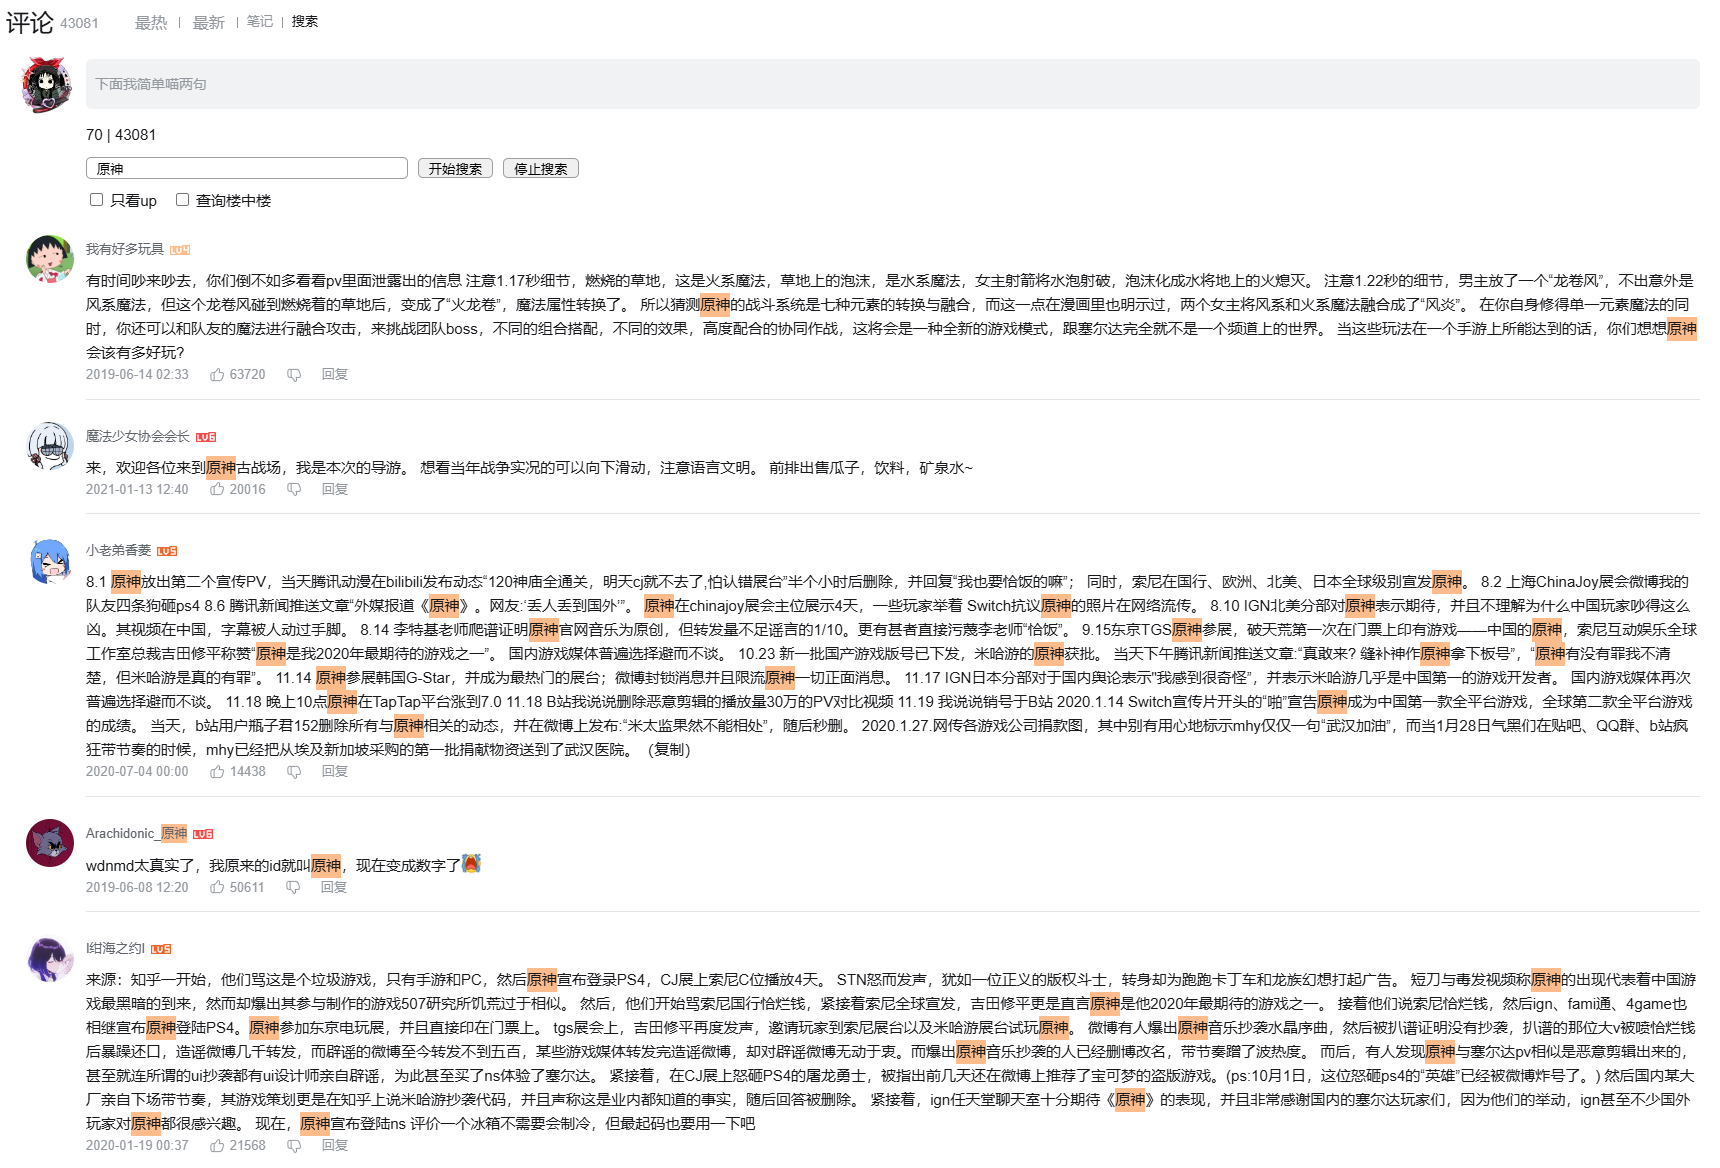
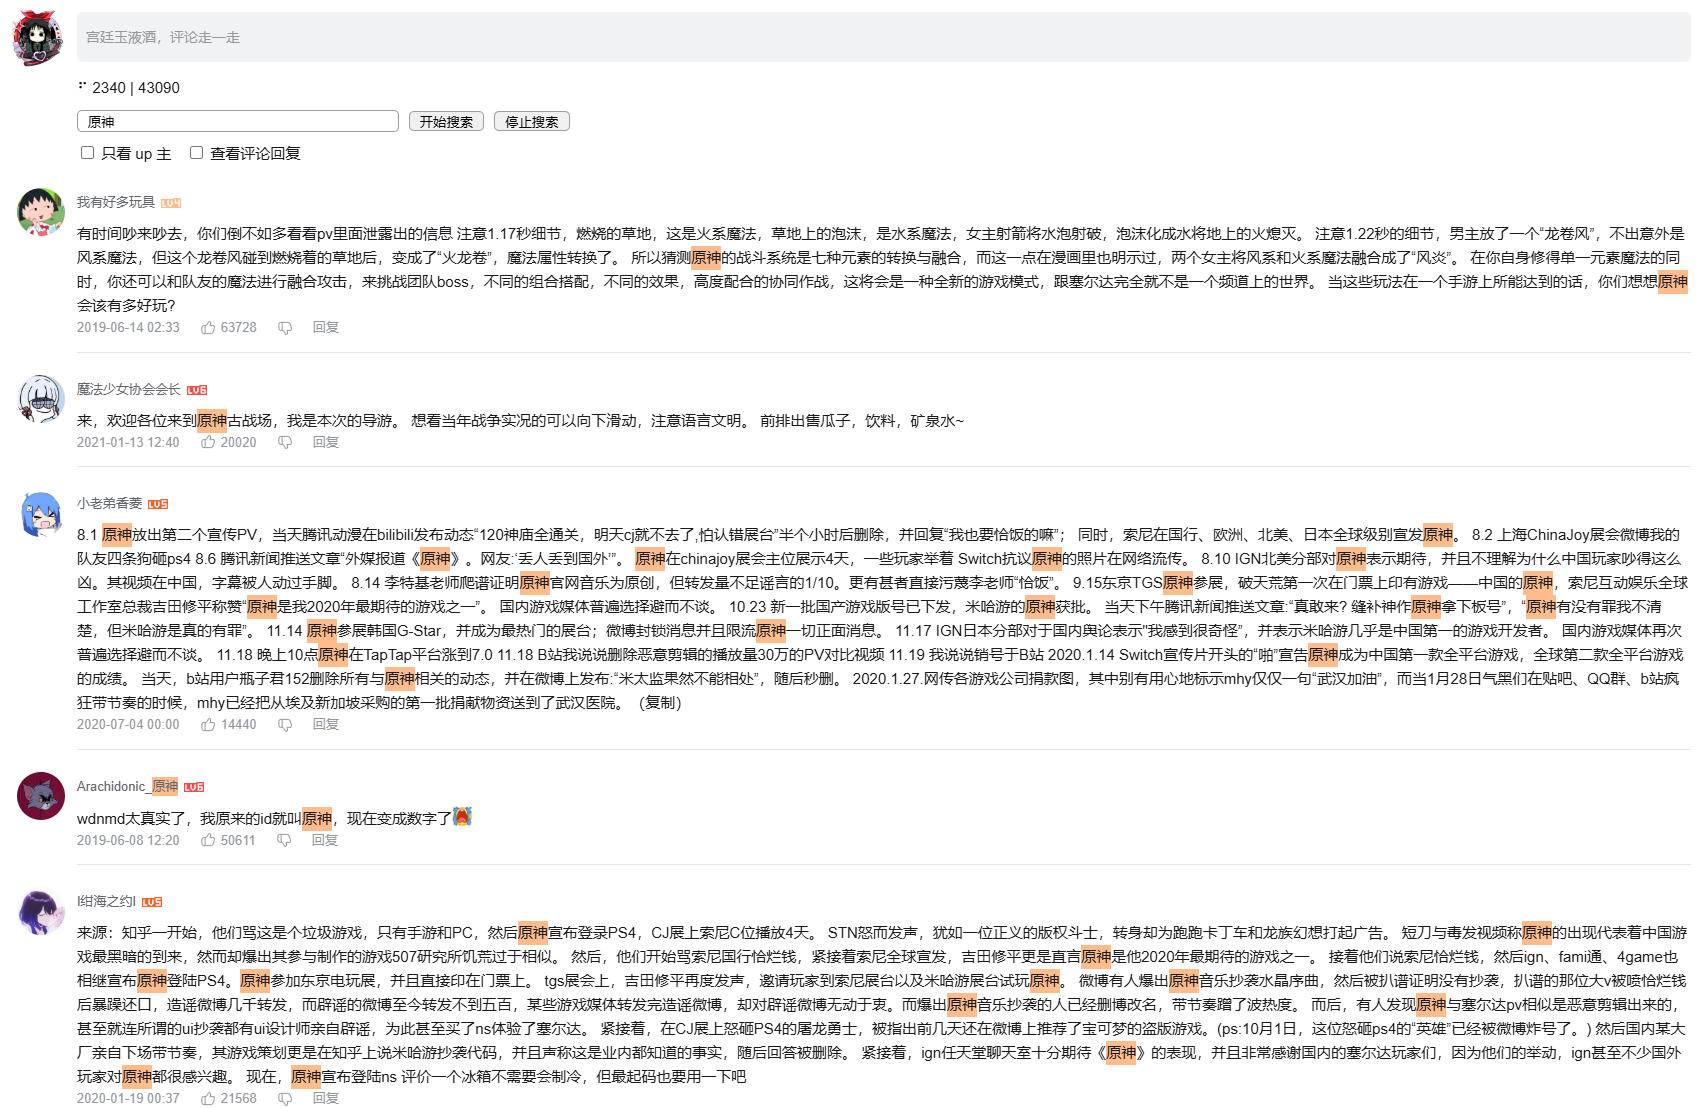
release: 发布 0.3.1

diff --git a/README.md b/README.md
@@ -28,9 +28,9 @@ https://wwrp.lanzout.com/b00wm4m01i
 
 > 目前还处于测试阶段，可能有 bug，欢迎反馈。
 >
-> 搜索速度较慢（约 20 条评论 / 0.5s，过快 b 站会制裁），建议耐心等待。
+> 目前搜索速度为 20 条评论 / 0.1s，默认不搜索评论回复。
 
 - 查看笔记
-- 只看 up
-- 搜索楼中楼
+- 只看 up 主
+- 搜索评论回复
 - 普通搜索 or 正则搜索
